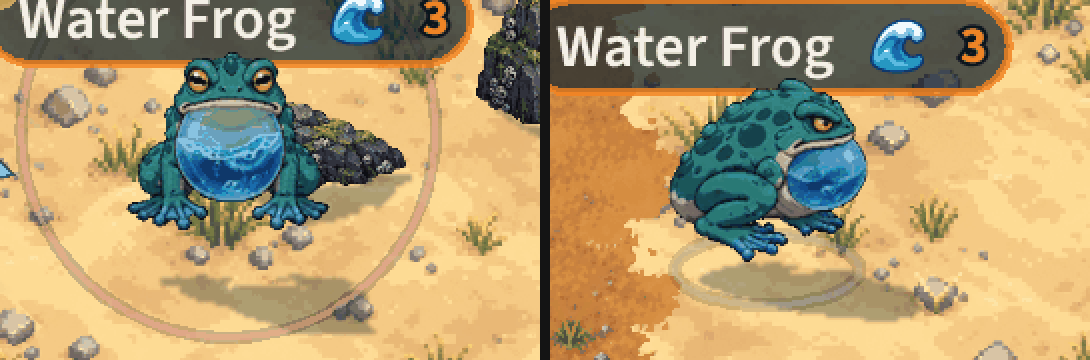
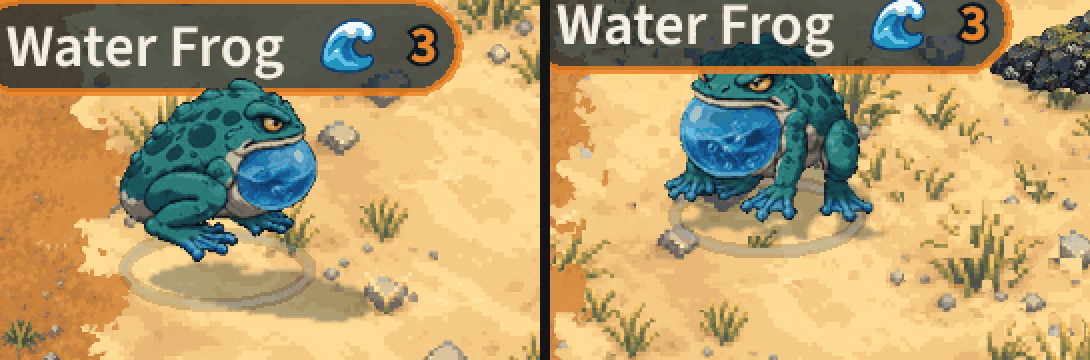
v2.3.4495: the water frog's shadow is its footprint under it, and the ring under it sits on its feet
The owner: "The water frog shadow is too far south of the sprite."
- shadows.js: a caster may be cast as its FOOTPRINT (flat: { s, lift }):
  its outline squashed onto the ground under it, kept above the feet
  line, pushed lift px along the sun.  A standing figure's shadow counts
  every pixel as height: the frog's 97 px (mostly its back seen from
  above) threw one 33 px south and 48 east, wholly south of its feet.
  The frog: shadowFlat { s: 0.45, lift: 14 }.  Every other look and
  every player are cast as before.
- effectsRenderer: the ring under a monster in reach sat on the bottom of
  its picture's cell, 17 px below the frog's feet; it is on the feet of
  any look with a feetRow now (lookFeetPad): the frog, the rock golem,
  the rotcap.
- mp-waterfrog step 10: each frog's shadow is its footprint.
Client only.  worldshadow 19/19; lockrings' three attack-button checks
fail on main too.

Claude-Session: https://claude.ai/code/session_01LccHaiVDemmhEbxAJ4B2S9

diff --git a/src/rendering/systems/effectsRenderer.js b/src/rendering/systems/effectsRenderer.js
@@ -341,7 +341,7 @@ import { getFrame as getSlimeFrame, hasState as hasSlimeState, SLIME_BASE_ROW, S
 import { getRecoloredFrame, hasRecoloredState } from '../monsterRecolor.js'; /* v2.3.1534; v2.3.1535 generalised */
 import { getRemnantsTexture as getSnowmanRemnantsTex, getSnowballTexture } from '../snowmanSprites.js'; /* v2.3.2217 */
 import { variantSpritesFor } from '../monsterVariantSprites.js';
-import { MONSTER_VARIANTS, ZONE_VARIANT_MAP, hitMaterialOf, hitFxTintOf /* v2.3.2923 */, isIntangible /* v2.3.3499: the whirlwind's catch is what it can hit */ } from '../../data/monsterVariants.js';
+import { MONSTER_VARIANTS, ZONE_VARIANT_MAP, hitMaterialOf, hitFxTintOf /* v2.3.2923 */, isIntangible /* v2.3.3499: the whirlwind's catch is what it can hit */, lookFeetPad /* v2.3.4495 */ } from '../../data/monsterVariants.js';
 import { drawArrowWound, drawArrowWoundLip, StuckArrowBaker } from '../arrowWound.js';
 import { pinnedArrow, arrowPinStats, arrowPinOnArt } from '../arrowPin.js';   /* v2.3.2930: stuck arrows pinned to the art, carried with the animation */   /* v2.3.2923: the puncture round a stuck shaft */
 import { ZONE_SHARDS } from '../../data/shards.js';
@@ -8321,7 +8321,11 @@ export class EffectsRenderer {
           const c = _tc[i];
           if (!c || !Number.isFinite(c.x) || !Number.isFinite(c.y)) continue;
           const mx = (c.m && (c.m.renderX != null ? c.m.renderX : c.m.x));
-          const my = (c.m && (c.m.renderY != null ? c.m.renderY : c.m.y));
+          /* v2.3.4495: on a look's FEET, which for the water frog (and the rock golem and the rotcap) are
+             24 rows of its picture above its place: the ring sat 17 px south of the frog, a pale oval
+             apart from it -- the owner: "The water frog shadow is too far south of the sprite" */
+          const _arch = c.m && (c.m.archetype || c.m.type);
+          const my = (c.m && (c.m.renderY != null ? c.m.renderY : c.m.y)) - lookFeetPad(_arch) * MONSTER_SIZE_MULT * bossSizeK(c.m);
           if (!Number.isFinite(mx) || !Number.isFinite(my)) continue;
           const rx = (monsterMeleeHitRadius(c.m && (c.m.arch || c.m.archetype || c.m.type)) || 24) * bossSizeK(c.m) + 10;   /* v2.3.3556: x a boss's size */
           const ry = rx * 0.38;

diff --git a/src/rendering/lightfx/shadows.js b/src/rendering/lightfx/shadows.js
@@ -738,7 +738,21 @@ export class ShadowSystem {
       const px = cs.px, py = cs.py;
       if (!Number.isFinite(px) || !Number.isFinite(py)) continue;
       /* the ground projection about this figure's feet (see header) */
-      P.set(1, 0, -lx, -ly, lx * py, py * (1 + ly));
+      const fl = cs.flat;
+      if (fl && fl.s > 0 && fl.s < 1) {
+        /* ═══ v2.3.4495: A SQUAT FIGURE'S SHADOW IS ITS FOOTPRINT ═══
+           The owner, of the water frog's: "The water frog shadow is too far south of the sprite."
+           Cast as a standing figure's, the whole picture is height: a frog 97 px tall on the screen,
+           most of it its back seen from above, threw a shadow reaching 33 px south and 48 east of its
+           feet, wholly south of them (a cast shadow can only fall away from the feet line).  A squat
+           creature's shadow is the ground it covers: its own outline squashed onto the ground UNDER
+           it (`s`: the share of its picture that is ground, kept above the feet line, not flipped
+           below it), pushed along the sun by how high its body stands (`lift` px).  Most of it is
+           then under the creature, and what shows is a dark edge on the side away from the light. */
+        P.set(1, 0, 0, fl.s, lx * fl.lift, py * (1 - fl.s) + ly * fl.lift);
+      } else {
+        P.set(1, 0, -lx, -ly, lx * py, py * (1 + ly));
+      }
       let placed = 0;
       /* v2.3.3000: a caster that never vanishes for a moment (the Wheel's
          objects: drawn or gone) keeps nothing to hold -- a hundred of them
@@ -766,7 +780,7 @@ export class ShadowSystem {
         if (items) this._held.set(cs.key, { t: now, items });
         st.casters++; st.pieces += placed; st.keys.push(cs.key);
         if (cs.key === 'self') st.self = { px, py, pieces: placed, held: false, standIns: cs.standIns || 0 };
-        if (st.list.length < 16) st.list.push({ key: cs.key, px, py, pieces: placed });
+        if (st.list.length < 16) st.list.push({ key: cs.key, px, py, pieces: placed, flat: fl ? fl.s : 0 });   /* v2.3.4495: + flat */
         continue;
       }
       /* nothing visible: hold the last shadow for a moment if the owner is

diff --git a/src/data/monsterVariants.js b/src/data/monsterVariants.js
@@ -313,6 +313,12 @@ export const MONSTER_VARIANTS = {
                           its shadow hung from there: "floating shadows"
                           (the owner).  lightfx/casters.js hangs it from
                           this row.
+       shadowFlat         (v2.3.4495) a squat look's shadow is its footprint:
+                          { s: the share of its picture that is the ground
+                          it covers, lift: how high its body stands, px }.
+                          Cast as a standing figure's, the frog's whole 97 px
+                          was height and its shadow fell "too far south of
+                          the sprite" (the owner).  lightfx/shadows.js.
      Client-visual only: nothing on the server or the wire reads these (`spd`
      is the mirrored one, and it is untouched). */
   fishman: {
@@ -320,6 +326,7 @@ export const MONSTER_VARIANTS = {
     liveScalePx: 120,
     headTopPx: 80,
     feetRow: 232,
+    shadowFlat: Object.freeze({ s: 0.45, lift: 14 }),
     spd: 0.5,
     hopWalk: true,
     walkDistPerFrame: 1.2,
@@ -566,6 +573,16 @@ export const ZONE_VARIANT_MAP = {
    scaling paths. */
 export function variantForArchetype(arch) {
   return (arch && MONSTER_VARIANTS[arch]) || null;
+}
+
+/* v2.3.4495: how far above its place (the bottom of its cell, where the body hangs) a look's feet are,
+   in its own measure (liveScalePx): its `feetRow`'s empty rows, scaled.  0 for a look standing on its
+   cell's bottom row.  The renderer multiplies by MONSTER_SIZE_MULT and a boss's size.  Read by the
+   ring under a monster in reach (effectsRenderer), which sat as far below the frog's feet as its
+   shadow had ("The water frog shadow is too far south of the sprite"). */
+export function lookFeetPad(arch) {
+  const v = arch && MONSTER_VARIANTS[arch];
+  return v && v.feetRow > 0 && v.feetRow < 256 ? (256 - v.feetRow) / 256 * (v.liveScalePx || 64) : 0;
 }
 
 /* Returns the base archetype an arch behaves like for AI purposes.

diff --git a/src/rendering/lightfx/casters.js b/src/rendering/lightfx/casters.js
@@ -181,7 +181,10 @@ export function collectCasters(S, er, fx, zone) {
          its hit circle are where they were. */
       const v = d._variantKey ? MONSTER_VARIANTS[d._variantKey] : null;
       const pad = v && v.feetRow > 0 && v.feetRow < MONSTER_CELL ? (MONSTER_CELL - v.feetRow) * Math.abs(b.scale.y) * d.scale.y : 0;
-      out.push({ key: 'm:' + id, px: g.x, py: g.y - pad, sprites: [b], alive: true });
+      /* v2.3.4495: ...and a squat look's shadow is its footprint (`shadowFlat`), not cast like a standing
+         figure's: the owner, of the frog's once it hung from the feet, "The water frog shadow is too
+         far south of the sprite" (shadows.js) */
+      out.push({ key: 'm:' + id, px: g.x, py: g.y - pad, sprites: [b], alive: true, flat: v && v.shadowFlat ? v.shadowFlat : null });
     }
   }
 

diff --git a/docs/specs/water-frog.md b/docs/specs/water-frog.md
@@ -241,7 +241,29 @@ The owner: "the water frogs currently have floating shadows and need fixed."
   and the storm eye (it hovers on purpose).
 - **Test**: `mp-waterfrog` step 10: in the Water Caves, each frog's shadow
   hangs 16.9 px above its cell's bottom, which is its 24 empty rows.
-- Picture: `docs/shots/frog-shadow.webp` (before, after).
+- Picture: `docs/shots/frog-shadow.webp` (v2.3.4495: before that, and now).
+
+**v2.3.4495, "The water frog shadow is too far south of the sprite."** Two
+things were still south of the frog once its shadow hung from its feet:
+
+- **Its shadow fell wholly south of its feet.** A standing figure's shadow is
+  its picture laid along the sun from its feet line: every pixel is height.
+  The frog's 97 px are mostly its back seen from above, so its shadow reached
+  33 px south and 48 east, as a bro's does, and a shadow cast that way can only
+  fall south of the feet. A squat look now says so (`shadowFlat` in
+  `MONSTER_VARIANTS`: `{ s: 0.45, lift: 14 }` on the frog), and its shadow is
+  its **footprint**: its own outline squashed onto the ground under it (0.45 of
+  its height, kept above the feet line) and pushed 14 px along the sun
+  (`lightfx/shadows.js`). Most of it is under the frog; a dark edge shows on its
+  east and south-east side. Other looks and every player are cast as before.
+- **The ring under a monster in reach sat on the bottom of its picture's
+  cell**, 17 px below the frog's feet: a pale oval apart from it. It is now on
+  the feet of any look with a `feetRow` (`lookFeetPad`, `effectsRenderer`'s
+  ring), so the rock golem's and the rotcap's moved up with the frog's.
+- Test: `mp-waterfrog` step 10 checks each frog's shadow is its footprint
+  (`flat` 0.45 in the shadow pass's list). `worldshadow` 19 of 19.
+  `lockrings` fails three checks about the attack button's see-through face,
+  on main too: not this change.
 
 ## What else changed with it
 
